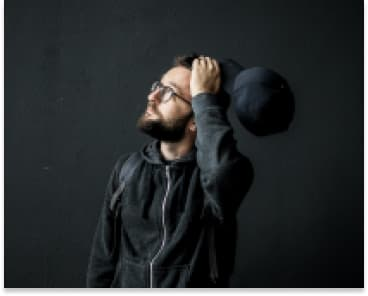
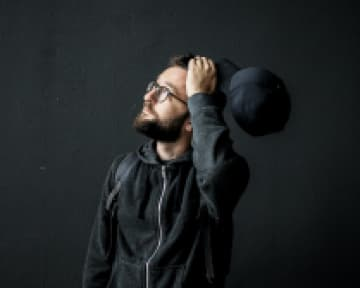
add hero mobile and 50% tablet

diff --git a/css/main.min.css b/css/main.min.css
@@ -1,1 +1,1 @@
-:root{--font:"Sen", sans-serif;--primary-background-color:#000000;--header-logo-icon-color:#FFFFFF;--menu-open-icon-color:#C4C4C4;--primary--text-light-color:#FFFFFF;--accent-color:#5221E6}h1,h2,h3,h4,p{margin-top:0;margin-bottom:0}ol,ul{margin-top:0;margin-bottom:0;padding-left:0}a{text-decoration:none}ul{list-style:none}img{display:block}button{cursor:pointer;font-family:inherit}body{font-family:var(--font);font-size:18px;background-color:var(--primary-background-color)}.container{padding-left:20px;padding-right:20px}@media screen and (min-width: 360px){.container{margin-left:auto;margin-right:auto}}@media screen and (min-width: 768px){.container{width:768px}}@media screen and (min-width: 1200px){.container{width:1200px}}@media screen and (max-width: 767px){.mobile-menu{position:fixed;top:0;left:0;width:100%;z-index:100;background-color:var(--primary-background-color);opacity:0;visibility:hidden;pointer-events:none;transition:opacity var(--transition-duration) var(--transition-timing-function),visibility var(--transition-duration) var(--transition-timing-function)}.mobile-menu.is-open{opacity:1;visibility:visible;pointer-events:auto}.mobile-menu__container{height:100vh;position:relative;padding-top:20px;padding-bottom:20px}.mobile-menu__close_btn{background-color:rgba(0,0,0,0);border:none;line-height:0;padding:0;position:absolute;top:24px;right:20px}.mobile-menu__close_btn{fill:var(--header-logo-icon-color)}.mobile-menu__link{font-weight:400;font-size:40px;line-height:47px;color:var(--primary--text-light-color);letter-spacing:.02em}.mobile-menu__navigation_item:not(:last-of-type){margin-bottom:20px}}@media screen and (min-width: 768px){.mobile-menu{display:none}}@media screen and (max-width: 767px){.menu{display:none}.mobile-menu__open_btn{background-color:rgba(0,0,0,0);border:none;line-height:0;padding:0}.mobile-menu_open__icon{width:24px;height:24px;fill:var(--header-logo-icon-color)}}.header{padding-top:24px;padding-bottom:24px}.header_flex{display:flex;justify-content:space-between}.header__logo_icon{width:78.43px;height:24px;fill:var(--header-logo-icon-color)}@media screen and (min-width: 360px){.header{width:360px;margin-left:auto;margin-right:auto}}@media screen and (min-width: 768px){.header{width:768px;padding-top:32px;padding-bottom:32px}.header_flex{display:block}.mobile-menu__open_btn{display:none}.menu{display:flex}.navigation{display:flex;justify-content:space-between}.menu__link{padding:32px 24px;font-weight:400;font-size:16px;line-height:150%;align-items:center;color:var(--primary--text-light-color)}.menu__link:hover{background-color:var(--accent-color)}}@media screen and (min-width: 1200px){.header{width:1200px}}/*# sourceMappingURL=main.min.css.map */
+:root{--font:"Sen", sans-serif;--primary-background-color:#000000;--header-logo-icon-color:#FFFFFF;--menu-open-icon-color:#C4C4C4;--primary--text-light-color:#FFFFFF;--accent-color:#5221E6;--hero-border-color:#808080;--hero-title-second-color:rgba(255, 255, 255, 0.5)}h1,h2,h3,h4,p{margin-top:0;margin-bottom:0}ol,ul{margin-top:0;margin-bottom:0;padding-left:0}a{text-decoration:none}ul{list-style:none}img{display:block}button{cursor:pointer;font-family:inherit}body{font-family:var(--font);font-size:18px;background-color:var(--primary-background-color)}.container{padding-left:20px;padding-right:20px}@media screen and (min-width: 360px){.container{margin-left:auto;margin-right:auto}}@media screen and (min-width: 768px){.container{width:768px}}@media screen and (min-width: 1200px){.container{width:1200px}}.section{padding-top:48px;padding-bottom:48px}@media screen and (min-width: 768px){.section{padding:80px 40px}}@media screen and (max-width: 767px){.mobile-menu{position:fixed;top:0;left:0;width:100%;z-index:100;background-color:var(--primary-background-color);opacity:0;visibility:hidden;pointer-events:none;transition:opacity var(--transition-duration) var(--transition-timing-function),visibility var(--transition-duration) var(--transition-timing-function)}.mobile-menu.is-open{opacity:1;visibility:visible;pointer-events:auto}.mobile-menu__container{height:100vh;position:relative;padding-top:20px;padding-bottom:20px}.mobile-menu__close_btn{background-color:rgba(0,0,0,0);border:none;line-height:0;padding:0;position:absolute;top:24px;right:20px}.mobile-menu__close_btn{fill:var(--header-logo-icon-color)}.mobile-menu__link{font-weight:400;font-size:40px;line-height:1.18;color:var(--primary--text-light-color)}.mobile-menu__navigation_item:not(:last-of-type){margin-bottom:20px}}@media screen and (min-width: 768px){.mobile-menu{display:none}}@media screen and (max-width: 767px){.menu{display:none}.mobile-menu__open_btn{background-color:rgba(0,0,0,0);border:none;line-height:0;padding:0}.mobile-menu_open__icon{width:24px;height:24px;fill:var(--header-logo-icon-color)}}.header{padding-top:24px;padding-bottom:24px}.header_flex{display:flex;justify-content:space-between}.header__logo_icon{width:78.43px;height:24px;fill:var(--header-logo-icon-color)}@media screen and (min-width: 360px){.header{width:360px;margin-left:auto;margin-right:auto}}@media screen and (min-width: 768px){.header{width:768px;padding-top:32px;padding-bottom:32px}.header_flex{display:block}.mobile-menu__open_btn{display:none}.menu{display:flex}.navigation{display:flex;justify-content:space-between}.menu__link{padding:32px 24px;font-weight:400;font-size:16px;line-height:1.5;align-items:center;color:var(--primary--text-light-color)}.menu__link:hover{background-color:var(--accent-color)}}@media screen and (min-width: 1200px){.header{width:1200px}}.hero{border-bottom:1px dashed var(--hero-border-color);padding-top:132px;padding-bottom:132px}.hero__img{width:280px;height:auto;margin-left:auto;margin-right:auto}.hero__info{padding-top:48px;padding-bottom:48px}.hero__title{margin-bottom:16px;font-weight:700;font-size:32px;line-height:1.19;color:var(--primary--text-light-color)}.hero__title_second{color:var(--hero-title-second-color)}.hero__text{font-weight:400;font-size:18px;line-height:1.5;color:var(--primary--text-light-color)}@media screen and (min-width: 360px){.hero__img{width:360px;height:288px}.hero__info{width:320px;margin-left:auto;margin-right:auto}}@media screen and (min-width: 768px){.hero{border-bottom:none;padding-top:80px;padding-bottom:80px;position:relative;height:810px}.hero__img{width:384px;height:650px;position:absolute;top:80px;left:0;z-index:-1}.hero__info{width:408px;margin-right:auto}.hero__title{margin-bottom:32px;font-weight:700;font-size:56px;line-height:1.2;color:var(--primary--text-light-color)}.hero__title_second{color:var(--hero-title-second-color)}.hero__text{font-weight:400;font-size:18px;line-height:1.5;color:var(--primary--text-light-color)}}@media screen and (min-width: 1200px){.container{width:1200px}}/*# sourceMappingURL=main.min.css.map */

diff --git a/index.html b/index.html
@@ -53,47 +53,47 @@
     </header>
     <main>
         <section class="hero">
+            <div class="container">
             <picture>
                 <source
-                srcset="./img/mobile/hero/img1.webp 1x, ./img/mobile/hero/img1.webp 2x"
+                srcset="./img/desktop/hero/img1.webp 1x, ./img/desktop/hero/img1@2x.webp 2x"
                 media="(min-width: 1200px)"
                 type="image/webp"
               />
               <source
-                srcset="./img/mobile/hero/img1.jpg 1x, ./img/mobile/hero/img1@2x.jpg 2x"
+                srcset="./img/desktop/hero/img1.jpg 1x, ./img/desktop/hero/img1@2x.jpg 2x"
                 media="(min-width: 1200px)"
               />
-      
+              <source
+                srcset="./img/tablet/hero/img1.webp 1x, ./img/tablet/hero/img1@2x.webp 2x"
+                media="(min-width: 768px)"
+                type="image/webp"
+              />
+              <source
+                srcset="./img/tablet/hero/img1.jpg 1x, ./img/tablet/hero/img1@2x.jpg 2x"
+                media="(min-width: 768px)"
+              />
               <source
                 srcset="./img/mobile/hero/img1.webp 1x, ./img/mobile/hero/img1@2x.webp 2x"
-                media="(min-width: 768px)"
+                media="(max-width: 767px)"
                 type="image/webp"
               />
               <source
                 srcset="./img/mobile/hero/img1.jpg 1x, ./img/mobile/hero/img1@2x.jpg 2x"
-                media="(min-width: 768px)"
-              />
-      
-              <!-- <source
-                srcset="./img/mobile/hero/img1.webp 1x, ./img/mobile/hero/img1.webp 2x"
-                media="(max-width: 767px)"
-                type="image/webp"
-              /> -->
-              <source
-                srcset="./img/mobile/hero/img1.jpg 1x, ./img/mobile/hero/img1@2x.jpg 2x"
                 media="(max-width: 767px)"
               />
-      
-                <img class="hero__img" src="./img/mobile/hero/img1.jpg" alt="Robin Williams photo" >
+            <img class="hero__img" src="./img/mobile/hero/img1.jpg"   alt="Robin Williams photo" >
             </picture>
-            <h1>I’m Robin Williams. A Product Designer <span>based in Italy.</span></h1>
-            <p>I’m probably the most passionate designer you will ever get to work with. If you have
-             a great project that needs some amazing skills, I’m your guy.</p>
+            <div class="hero__info">
+            <h1 class="hero__title">I&#39m Robin Williams. A Product Designer <span class="hero__title_second">based in Italy.</span></h1>
+            <p class="hero__text">I&#39m probably the most passionate designer you will ever get to work with.
+                 If you have a great project that needs some amazing skills, I&#39m your guy.</p>
+            </div>
+        </div>
         </section>
         <section class="experience">
             <p>work experience</p>
-            <h2>Companies I have worked
-                for in the past</h2>
+            <h2>Companies I have worked for in the past</h2>
                 <ul>
                     <li>
                         <p>01</p>

diff --git a/css/main.css b/css/main.css
@@ -5,6 +5,8 @@
   --menu-open-icon-color:#C4C4C4;
   --primary--text-light-color:#FFFFFF;
   --accent-color:#5221E6;
+  --hero-border-color:#808080;
+  --hero-title-second-color:rgba(255, 255, 255, 0.5);
 }
 
 h1,
@@ -66,6 +68,16 @@ body {
     width: 1200px;
   }
 }
+.section {
+  padding-top: 48px;
+  padding-bottom: 48px;
+}
+
+@media screen and (min-width: 768px) {
+  .section {
+    padding: 80px 40px;
+  }
+}
 @media screen and (max-width: 767px) {
   .mobile-menu {
     position: fixed;
@@ -105,9 +117,8 @@ body {
   .mobile-menu__link {
     font-weight: 400;
     font-size: 40px;
-    line-height: 47px;
+    line-height: 1.18;
     color: var(--primary--text-light-color);
-    letter-spacing: 0.02em;
   }
   .mobile-menu__navigation_item:not(:last-of-type) {
     margin-bottom: 20px;
@@ -180,7 +191,7 @@ body {
     padding: 32px 24px;
     font-weight: 400;
     font-size: 16px;
-    line-height: 150%;
+    line-height: 1.5;
     align-items: center;
     color: var(--primary--text-light-color);
   }
@@ -190,6 +201,96 @@ body {
 }
 @media screen and (min-width: 1200px) {
   .header {
+    width: 1200px;
+  }
+}
+.hero {
+  border-bottom: 1px dashed var(--hero-border-color);
+  padding-top: 132px;
+  padding-bottom: 132px;
+}
+
+.hero__img {
+  width: 280px;
+  height: auto;
+  margin-left: auto;
+  margin-right: auto;
+}
+
+.hero__info {
+  padding-top: 48px;
+  padding-bottom: 48px;
+}
+
+.hero__title {
+  margin-bottom: 16px;
+  font-weight: 700;
+  font-size: 32px;
+  line-height: 1.19;
+  color: var(--primary--text-light-color);
+}
+
+.hero__title_second {
+  color: var(--hero-title-second-color);
+}
+
+.hero__text {
+  font-weight: 400;
+  font-size: 18px;
+  line-height: 1.5;
+  color: var(--primary--text-light-color);
+}
+
+@media screen and (min-width: 360px) {
+  .hero__img {
+    width: 360px;
+    height: 288px;
+  }
+  .hero__info {
+    width: 320px;
+    margin-left: auto;
+    margin-right: auto;
+  }
+}
+@media screen and (min-width: 768px) {
+  .hero {
+    border-bottom: none;
+    padding-top: 80px;
+    padding-bottom: 80px;
+    position: relative;
+    height: 810px;
+  }
+  .hero__img {
+    width: 384px;
+    height: 650px;
+    position: absolute;
+    top: 80px;
+    left: 0;
+    z-index: -1;
+  }
+  .hero__info {
+    width: 408px;
+    margin-right: auto;
+  }
+  .hero__title {
+    margin-bottom: 32px;
+    font-weight: 700;
+    font-size: 56px;
+    line-height: 1.2;
+    color: var(--primary--text-light-color);
+  }
+  .hero__title_second {
+    color: var(--hero-title-second-color);
+  }
+  .hero__text {
+    font-weight: 400;
+    font-size: 18px;
+    line-height: 1.5;
+    color: var(--primary--text-light-color);
+  }
+}
+@media screen and (min-width: 1200px) {
+  .container {
     width: 1200px;
   }
 }/*# sourceMappingURL=main.css.map */

diff --git a/sass/layout/_hero.scss b/sass/layout/_hero.scss
@@ -1,0 +1,91 @@
+.hero{
+    border-bottom: 1px dashed var(--hero-border-color);
+    padding-top:132px ;
+    padding-bottom: 132px;
+}
+.hero__img{
+    width:280px;
+    height: auto;
+    margin-left: auto;
+    margin-right: auto;
+}
+.hero__info{
+    padding-top:48px ;
+    padding-bottom: 48px;
+
+}
+.hero__title{
+    margin-bottom: 16px;
+    font-weight: 700;
+    font-size: 32px;
+    line-height:1.19;
+    color: var(--primary--text-light-color);
+}
+
+.hero__title_second{
+    color: var(--hero-title-second-color);
+}
+.hero__text{
+    font-weight: 400;
+font-size: 18px;
+line-height: 1.5;
+color:var(--primary--text-light-color);
+}
+
+
+
+@media screen and (min-width:360px) {
+    .hero__img{
+        width:360px;
+        height: 288px;
+    }
+.hero__info{
+    width: 320px;
+    margin-left: auto;
+    margin-right: auto;
+}
+}
+@media screen and (min-width: 768px) {
+    .hero{
+        border-bottom:none;
+        padding-top: 80px;
+        padding-bottom: 80px;
+        position: relative;
+        height: 810px;
+
+    }
+    .hero__img{
+        width:384px;
+        height: 650px;
+        position: absolute;
+        top: 80px;
+        left: 0;
+        z-index: -1;
+    }
+    .hero__info{
+    width: 408px;
+    margin-right: auto;
+}
+.hero__title{
+    margin-bottom: 32px;
+    font-weight: 700;
+    font-size: 56px;
+    line-height: 1.2;
+    color: var(--primary--text-light-color);
+}
+
+.hero__title_second{
+    color: var(--hero-title-second-color);
+}
+.hero__text{
+    font-weight: 400;
+font-size: 18px;
+line-height: 1.5;
+color:var(--primary--text-light-color);
+}
+}
+@media screen and (min-width: 1200px) {
+    .container{
+        width: 1200px;
+    }
+}

diff --git a/sass/components/_mobile-menu.scss b/sass/components/_mobile-menu.scss
@@ -40,9 +40,8 @@
 .mobile-menu__link{
     font-weight: 400;
     font-size: 40px;
-    line-height: 47px;
+    line-height: 1.18;
     color:var(--primary--text-light-color);
-    letter-spacing: 0.02em;
 }
 .mobile-menu__navigation_item:not(:last-of-type){
     margin-bottom: 20px;

diff --git a/sass/base/_sections.scss b/sass/base/_sections.scss
@@ -1,0 +1,14 @@
+.section{
+    padding-top: 48px;
+    padding-bottom:48px;
+}
+@media screen and (min-width: 768px) {
+.section{
+    padding: 80px 40px;
+}
+}
+// @media screen and (min-width: 1200px) {
+//     .container{
+//         width: 1200px;
+//     }
+// }

diff --git a/sass/layout/_header.scss b/sass/layout/_header.scss
@@ -59,7 +59,7 @@ padding-bottom: 24px;
     padding: 32px 24px;
     font-weight: 400;
     font-size: 16px;
-    line-height: 150%;
+    line-height: 1.5;
     align-items: center;
     color: var(--primary--text-light-color);
     &:hover{

diff --git a/sass/utils/_variables.scss b/sass/utils/_variables.scss
@@ -5,4 +5,6 @@
     --menu-open-icon-color:#C4C4C4;
     --primary--text-light-color:#FFFFFF;
     --accent-color:#5221E6;
+    --hero-border-color:#808080;
+    --hero-title-second-color:rgba(255, 255, 255, 0.5);
 }

diff --git a/sass/main.scss b/sass/main.scss
@@ -7,3 +7,4 @@
 @import "./components/mobile-menu";
 
 @import "./layout/header";
+@import "./layout/hero";
